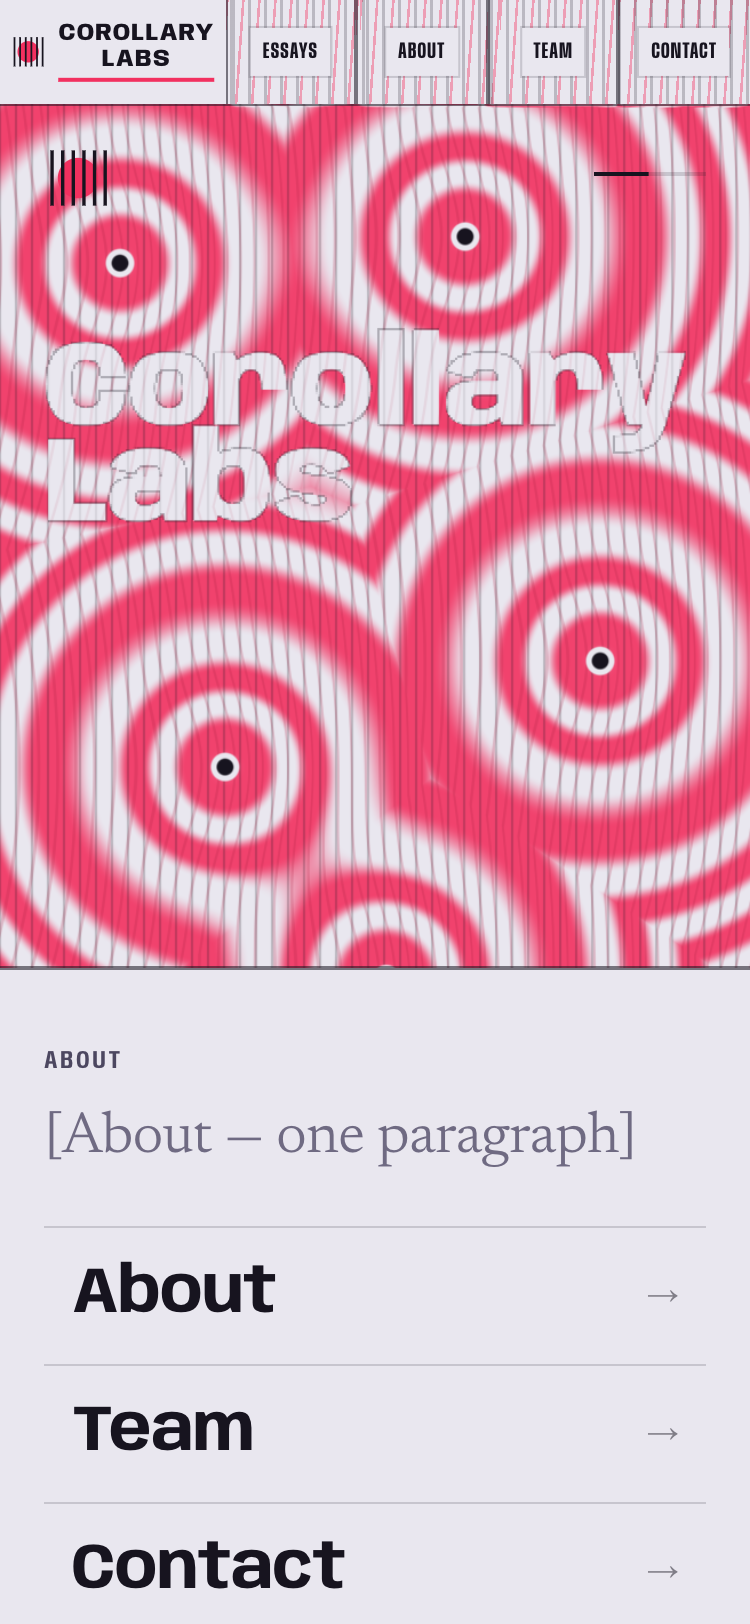
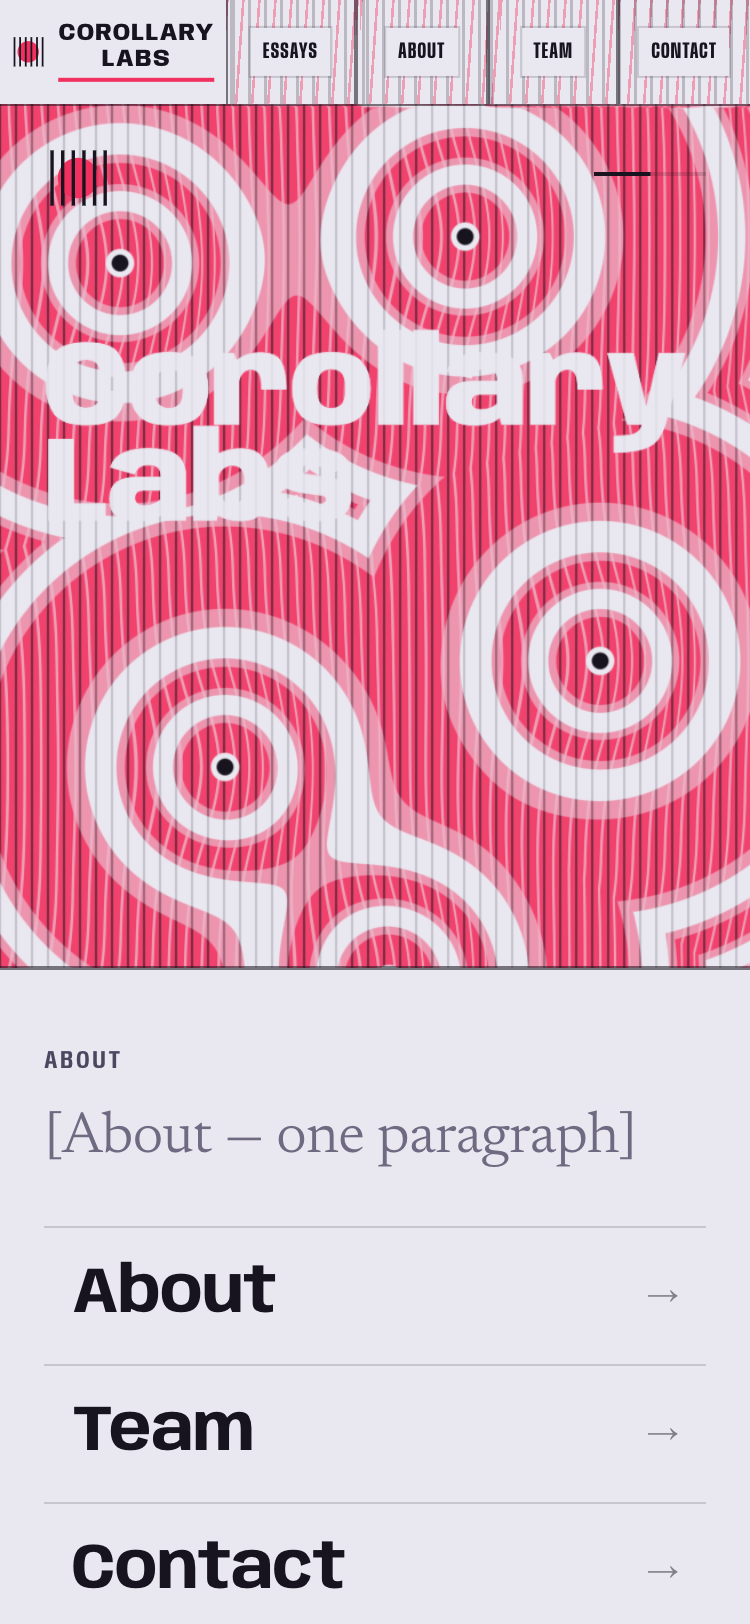
Interference: critic round 2 — crisp three-step moiré bands with visible ruling beat, ring cursor, short intro sweep, whole-page clipped transitions, fixed link cells, capped hero, instant still mode

Changed region(s): [[0.0, 0.0616, 1.0, 0.6158]]

diff --git a/site/src/scripts/gl.ts b/site/src/scripts/gl.ts
@@ -17,7 +17,8 @@ export interface Frame {
   wave: number[];        // x, amplitude (pitches), width
   ripples: number[][];   // [x, y, age s, amp]
   pitch: number;
-  intro: number;         // 0..1: the gratings settle into register on first load
+  intro: number;         // 0..1: progress of the short sweep on first load
+  clip: number[];        // x-range the band may draw in (the opening page during a transition)
 }
 
 const VERT = `attribute vec2 p; void main(){ gl_Position = vec4(p, 0.0, 1.0); }`;
@@ -29,7 +30,7 @@ uniform float u_b[6]; uniform float u_comp[5]; uniform float u_strip; uniform fl
 uniform vec4 u_band; uniform float u_hasBand; uniform sampler2D u_mask; uniform float u_hasMask;
 uniform vec4 u_ag[6]; uniform float u_nag;
 uniform vec3 u_front;
-uniform vec3 u_cur; uniform vec3 u_wave; uniform vec4 u_rip[4]; uniform float u_intro;
+uniform vec3 u_cur; uniform vec3 u_wave; uniform vec4 u_rip[4]; uniform float u_intro; uniform vec2 u_clip;
 uniform vec3 u_ground; uniform vec3 u_ink; uniform vec3 u_acc;
 
 float lines(float s, float w) {
@@ -40,11 +41,13 @@ float lines(float s, float w) {
   return mix(c, w / u_p, smoothstep(u_p * 0.25, u_p * 0.6, fw));
 }
 // the moiré seen from reading distance: 0 where the gratings coincide, 1 where they are half a pitch apart
+// quantised to three flat steps with ~1px anti-aliased edges: crisp contour bands, no blur
 float fringe(float D) {
   float ph = D / u_p;
-  float t = 0.5 - 0.5 * cos(6.2831853 * ph);
-  t = smoothstep(0.12, 0.88, t);
-  return mix(t, 0.5, smoothstep(0.22, 0.55, fwidth(ph)));
+  float tc = 0.5 - 0.5 * cos(6.2831853 * ph);
+  float fw = max(fwidth(tc) * 0.75, 0.0005);
+  float t = 0.5 * (smoothstep(0.3 - fw, 0.3 + fw, tc) + smoothstep(0.7 - fw, 0.7 + fw, tc));
+  return mix(t, 0.5, smoothstep(0.3, 0.6, fwidth(ph)));
 }
 
 void main() {
@@ -63,11 +66,13 @@ void main() {
     phs += fi * 1.9 * wgt;
   }
   c *= 1.0 - smoothstep(u_strip - 2.0, u_strip + 2.0, y);
+  // during a page change the opening page is not a fold: its strain stays at the moving seam (the wave)
+  c *= 1.0 - step(-1e4, u_clip.x) * step(u_clip.x, x) * step(x, u_clip.y);
   float Df = c * ((y - u_res.y * 0.5) * ang + u_p * 0.8 * sin(y * 0.008 + phs));
 
   // the band
   vec2 bl = frag - u_band.xy;
-  float inBand = step(0.0, bl.x) * step(0.0, bl.y) * step(bl.x, u_band.z) * step(bl.y, u_band.w) * u_hasBand;
+  float inBand = step(0.0, bl.x) * step(0.0, bl.y) * step(bl.x, u_band.z) * step(bl.y, u_band.w) * u_hasBand * step(u_clip.x, x) * step(x, u_clip.y);
   float Db = 0.0; float dmin = 1e5; float dots = 0.0; float halo = 0.0;
   for (int i = 0; i < 6; i++) {
     if (float(i) >= u_nag) break;
@@ -85,7 +90,6 @@ void main() {
   // pointer, click rings, the wave that runs along the moving seam, the settle-in on load
   float Dx = 0.0;
   vec2 dc = frag - u_cur.xy;
-  Dx += u_cur.z * u_p * 1.25 * exp(-dot(dc, dc) / 7000.0);
   for (int i = 0; i < 4; i++) {
     vec4 rp = u_rip[i];
     if (rp.w > 0.0) {
@@ -96,7 +100,9 @@ void main() {
   }
   float wq = (x - u_wave.x) / u_wave.z;
   Dx += u_wave.y * u_p * exp(-wq * wq);
-  Dx += u_intro * u_p * 2.5 * (x / u_res.x + 0.4 * y / u_res.y);
+  // on load: one narrow band sweeps once across the sheet (the letters are not affected, see below)
+  float iq = (x - mix(-0.15, 1.15, u_intro) * u_res.x) / 70.0;
+  Dx += sin(3.14159 * u_intro) * u_p * 0.5 * exp(-iq * iq);
 
   float D = Df + Db * inBand + Dx;
   float t = fringe(D);
@@ -104,18 +110,20 @@ void main() {
   // the title is written into the sheet. Rings and the pointer do not reach inside the letters: a letter is rose on
   // the undisturbed sheet and lilac once the front has shifted it, so it always reads, and it inverts with the sheet.
   float m = u_hasMask > 0.5 ? texture2D(u_mask, bl / u_band.zw).r * inBand : 0.0;
-  float edge = u_hasMask > 0.5 ? smoothstep(0.12, 0.45, fwidth(m)) : 0.0;
   t = mix(t, 1.0 - smoothstep(0.35, 0.65, fr), m);
 
   // folds are quieter than the band, and quieter still while reading
   float strength = mix(1.0, 0.72 * u_dim, c * (1.0 - inBand));
   vec3 col = mix(u_ground, u_acc, t * 0.9 * strength);
-  // a faint ruling: the fixed grating, and the moving one in a deeper rose
+  // the two rulings: faint on the plain sheet, stronger inside rose bands, where their beat shows as fine lines
   float l1 = lines(x, 1.3);
   float l2 = lines(x - D, 1.3);
-  col = mix(col, u_ink, l1 * 0.2 * strength * (1.0 - m * 0.6));
-  col = mix(col, u_acc * 0.72, l2 * 0.22 * strength * (1.0 - m * 0.6));
-  col = mix(col, u_ink, edge * 0.28);
+  float ruleK = strength * (1.0 - m * 0.75);
+  col = mix(col, u_ground, l2 * (0.1 + 0.45 * t) * ruleK);
+  col = mix(col, u_ink, l1 * (0.16 + 0.34 * t) * ruleK);
+  // the pointer: a thin contour ring
+  float cr = abs(length(dc) - 36.0);
+  col = mix(col, u_acc * 0.85, (1.0 - smoothstep(0.4, 1.2, cr)) * u_cur.z);
   col = mix(col, u_ground, halo * inBand);
   col = mix(col, u_ink, dots * inBand);
   gl_FragColor = vec4(col, 1.0);
@@ -141,7 +149,7 @@ export function createRenderer(canvas: HTMLCanvasElement) {
   gl.bufferData(gl.ARRAY_BUFFER, new Float32Array([-1, -1, 3, -1, -1, 3]), gl.STATIC_DRAW);
   const loc = gl.getAttribLocation(prog, 'p'); gl.enableVertexAttribArray(loc); gl.vertexAttribPointer(loc, 2, gl.FLOAT, false, 0, 0);
   const U: Record<string, WebGLUniformLocation | null> = {};
-  for (const n of ['u_res', 'u_dpr', 'u_p', 'u_b', 'u_comp', 'u_strip', 'u_dim', 'u_band', 'u_hasBand', 'u_mask', 'u_hasMask', 'u_ag', 'u_nag', 'u_front', 'u_cur', 'u_wave', 'u_rip', 'u_intro', 'u_ground', 'u_ink', 'u_acc'])
+  for (const n of ['u_res', 'u_dpr', 'u_p', 'u_b', 'u_comp', 'u_strip', 'u_dim', 'u_band', 'u_hasBand', 'u_mask', 'u_hasMask', 'u_ag', 'u_nag', 'u_front', 'u_cur', 'u_wave', 'u_rip', 'u_intro', 'u_clip', 'u_ground', 'u_ink', 'u_acc'])
     U[n] = gl.getUniformLocation(prog, n);
 
   const cs = getComputedStyle(document.documentElement);
@@ -190,6 +198,7 @@ export function createRenderer(canvas: HTMLCanvasElement) {
     const rp = new Float32Array(16); f.ripples.slice(0, 4).forEach((r, i) => rp.set(r, i * 4));
     g.uniform4fv(U.u_rip, rp);
     g.uniform1f(U.u_intro, f.intro);
+    g.uniform2f(U.u_clip, f.clip[0], f.clip[1]);
     g.drawArrays(g.TRIANGLES, 0, 3);
   }
 

diff --git a/site/src/scripts/app.ts b/site/src/scripts/app.ts
@@ -183,6 +183,8 @@ function bandState(w: number, h: number) {
 
 // ---------------------------------------------------------------- render on demand
 let wave = [0, 0, 180];
+let bandClip = [-1e5, 1e5];
+let snap = false;
 let transitioning = false;
 const comps = [0, 0, 0, 0, 0];
 let dim = 1;
@@ -217,8 +219,8 @@ function frame(now: number) {
   const bounds = [0, ...rects.slice(0, 4).map((r) => r.right), W];
   rects.forEach((r, i) => {
     let target = openW - s > 1 ? 1 - clamp((r.width - s) / (openW - s)) : 1;
-    if (i === hovered && i !== active && !transitioning) target = 0;
-    comps[i] = transitioning ? target : lerp(comps[i], target, 0.16);
+    if (i === hovered && i !== active && !transitioning && !still) target = 0;
+    comps[i] = transitioning || still || snap ? target : lerp(comps[i], target, 0.16);
   });
 
   cursor.x = lerp(cursor.x, cursor.tx, 0.22); cursor.y = lerp(cursor.y, cursor.ty, 0.22);
@@ -237,17 +239,18 @@ function frame(now: number) {
     }
   }
   if (transitioning) dimTarget = 1;
-  dim = lerp(dim, dimTarget, 0.12);
+  dim = still ? dimTarget : lerp(dim, dimTarget, 0.12);
+  snap = false;
 
   for (let i = ripples.length - 1; i >= 0; i--) if (now - ripples[i].t > 3200) ripples.splice(i, 1);
   const rip = ripples.map((r) => [r.x, r.y, (now - r.t) / 1000, 1]);
-  const intro = still ? 0 : Math.pow(1 - smooth(0.1, 1.3, (now - bootAt) / 1000), 2);
+  const intro = still ? 1 : clamp(((now - bootAt) / 1000 - 0.15) / 0.7);
 
   const f: Frame = {
     bounds, comps: comps.slice(), strip: phone ? stripH : 1e5, dim,
     band: bandRect, agents: st.agents, front: st.front,
     cursor: [cursor.x, cursor.y, cursor.s], wave, ripples: rip,
-    pitch: phone ? 8 : 9, intro,
+    pitch: phone ? 8 : 9, intro, clip: transitioning ? bandClip : [-1e5, 1e5],
   };
   // draw only if something visible changed; stop the loop once it has been quiet for a few frames
   const sig = JSON.stringify([bounds.map(Math.round), comps.map((c) => c.toFixed(3)), bandRect?.map(Math.round), st.agents.map((a) => a.map((v) => v.toFixed(1))), st.front.map((v) => v.toFixed(1)), Math.round(cursor.x), Math.round(cursor.y), cursor.s.toFixed(3), dim.toFixed(3), wave.map((v) => v.toFixed(1)), intro.toFixed(3), W, H]);
@@ -301,8 +304,12 @@ async function go(href: string, push = true) {
 
   // a frozen copy of the page being left, so both regions can move at the same time
   let ghost: HTMLElement | null = null;
+  const st0 = leaf.querySelector<HTMLElement>('.hero__stage');
+  const stOff = st0 ? st0.getBoundingClientRect().top - (st0.parentElement as HTMLElement).getBoundingClientRect().top : 0;
   if (!still && from !== to) {
     ghost = leaf.cloneNode(true) as HTMLElement;
+    const gst = ghost.querySelector<HTMLElement>('.hero__stage');
+    if (gst) { gst.style.position = 'relative'; gst.style.top = `${stOff}px`; }
     ghost.removeAttribute('id'); ghost.setAttribute('aria-hidden', 'true'); ghost.inert = true;
     ghost.classList.add('ghost');
     Object.assign(ghost.style, { left: `${before.left}px`, top: `${before.top}px`, width: `${before.width}px` });
@@ -333,6 +340,9 @@ async function go(href: string, push = true) {
   transitioning = true;
   leaf.classList.add('is-moving');
   ghost.classList.add('is-moving');
+  hovered = -1;
+  const movingFolds = [folds[from], folds[to]].filter(Boolean);
+  movingFolds.forEach((f) => f.classList.add('is-moving'));
   const box = leaf.getBoundingClientRect();
   const dur = 720, start = performance.now();
   const inset = (el: DOMRect, x: number, w: number) => `inset(0 ${Math.max(0, el.left + el.width - (x + w))}px 0 ${Math.max(0, x - el.left)}px)`;
@@ -350,10 +360,13 @@ async function go(href: string, push = true) {
       const gx = lerp(go0[0], go1[0], e), gw = lerp(go0[1], go1[1], e);
       const no0 = stripOf(A, to), no1 = stripOf(B, to);
       const nx = lerp(no0[0], no1[0], e), nw = lerp(no0[1], no1[1], e);
-      ghost!.style.clipPath = inset(before, gx, gw);
+      // desktop: the old page closes into its strip. phone: the new page wipes across the old one.
+      // Either way both pages stay whole (band and body) and are cut at the same edge.
+      ghost!.style.clipPath = phone
+        ? `polygon(evenodd, 0 0, 100% 0, 100% 100%, 0 100%, 0 0, ${nx - before.left}px 0, ${nx + nw - before.left}px 0, ${nx + nw - before.left}px 100%, ${nx - before.left}px 100%, ${nx - before.left}px 0)`
+        : inset(before, gx, gw);
+      bandClip = [nx, nx + nw];
       leaf.style.clipPath = inset(box, nx, nw);
-      ghost!.style.setProperty('--fade', String(1 - clamp(ms / 120)));
-      leaf.style.setProperty('--fade', String(clamp((ms - (dur - 150)) / 150)));
       // the strain wave rides the seam that moves furthest
       const dl = Math.abs(no1[0] - no0[0]), dr = Math.abs(no1[0] + no1[1] - (no0[0] + no0[1]));
       const seam = dl > dr ? nx : nx + nw;
@@ -364,7 +377,10 @@ async function go(href: string, push = true) {
   });
 
   ghost.remove();
-  leaf.style.clipPath = ''; leaf.style.removeProperty('--fade');
+  leaf.style.clipPath = '';
+  movingFolds.forEach((f) => f.classList.remove('is-moving'));
+  bandClip = [-1e5, 1e5];
+  snap = true;
   leaf.classList.remove('is-moving');
   placeCSS(to);
   wave = [0, 0, 180];

diff --git a/site/src/styles/global.css b/site/src/styles/global.css
@@ -152,10 +152,15 @@ html:not(.js) .motion { display: none; }
   padding-right: max(var(--pad), calc((100% - var(--measure)) / 2));
 }
 
-/* during a page change: text fades, surfaces stay */
-.is-moving > * > * { opacity: var(--fade, 1); }
+/* during a page change: a frozen copy of the page being left, whole (band and body), cut at the moving edge */
 .ghost { position: fixed; z-index: 3; margin: 0 !important; pointer-events: none; }
-.ghost .band { background: var(--ground); }
+.ghost .band {
+  background:
+    repeating-linear-gradient(90deg, rgba(23, 20, 31, 0.16) 0 1.3px, transparent 1.3px var(--pitch)),
+    var(--ground);
+}
+.ghost .band__title { color: var(--accent) !important; }
+.fold.is-moving .fold__label { opacity: 0 !important; transition: opacity 0.1s; }
 
 /* the band: a window onto the sheet, with the page title written into it */
 .band {
@@ -196,14 +201,14 @@ html:not(.gl-on) .band {
 /* ---------- home ---------- */
 /* a short scene: the stage is pinned at 88% of the screen and the About block already shows below it; scrolling
    (about half a screen) runs the scene while that block slides up over the lower part of the stage */
-.hero { position: relative; height: calc(88svh + 52vh); }
+.hero { position: relative; --stage: min(88svh, 760px); height: calc(var(--stage) + 50vh); }
 .hero__stage {
   position: sticky; top: var(--strip);
-  height: calc(88vh - var(--strip)); height: calc(88svh - var(--strip));
-  align-items: flex-start; padding-top: calc(var(--pad) + 13vh) !important;
+  height: calc(var(--stage) - var(--strip));
+  align-items: flex-start; padding-top: calc(var(--pad) + min(13vh, 110px)) !important;
   --fit: 8.2;
 }
-.hero + .brief { margin-top: -52vh; z-index: 3; box-shadow: 0 -1px 0 var(--seam); }
+.hero + .brief { margin-top: -50vh; z-index: 3; box-shadow: 0 -1px 0 var(--seam); }
 .hero__name .band__line { display: inline; }
 .hero__mark { position: absolute; left: max(var(--pad), calc((100% - var(--measure)) / 2)); top: calc(var(--pad) * 0.7); }
 .hero__statement {
@@ -236,10 +241,11 @@ html:not(.gl-on) .band {
   grid-column: 1 / -1; list-style: none; margin: calc(var(--pad) * 0.5) 0 0; padding: 0;
   display: flex; border-top: 1px solid var(--rule); border-bottom: 1px solid var(--rule);
 }
-.stretch-links li { flex: 1 1 0; min-width: 0; transition: flex-grow 0.7s var(--ease); }
+.stretch-links { overflow: hidden; }
+.stretch-links li { flex: 1 1 0; min-width: max-content; transition: flex-grow 0.7s var(--ease); }
 .stretch-links li + li { border-left: 1px solid var(--rule); }
 .stretch-links a {
-  display: flex; align-items: center; justify-content: flex-start; height: clamp(84px, 9vw, 140px); padding: 0 clamp(14px, 2vw, 28px);
+  display: flex; align-items: center; justify-content: flex-start; height: clamp(84px, 9vw, 140px); padding: 0 calc(clamp(14px, 2vw, 28px) + 0.9em) 0 clamp(14px, 2vw, 28px);
   text-decoration: none; overflow: hidden; position: relative;
   font: 700 clamp(30px, 4.2vw, 68px)/1 var(--sans); font-stretch: 100%; letter-spacing: -0.01em;
   transition: font-stretch 0.7s var(--ease), color 0.3s;
@@ -250,7 +256,7 @@ html:not(.gl-on) .band {
 }
 .stretch-links a::before { content: '→'; position: absolute; right: clamp(14px, 2vw, 28px); font-size: 0.5em; font-weight: 500; opacity: 0.5; }
 .stretch-links:hover li:hover, .stretch-links li:focus-within { flex-grow: 2; }
-.stretch-links li:hover a, .stretch-links li a:focus-visible { font-stretch: 150%; }
+.stretch-links li:hover a, .stretch-links li a:focus-visible { font-stretch: 128%; }
 .stretch-links li:hover a::after, .stretch-links li a:focus-visible::after { transform: scaleX(1); }
 
 .latest { padding-top: calc(var(--pad) * 1.1); padding-bottom: calc(var(--pad) * 1.3); }
@@ -369,7 +375,7 @@ html[data-page='home'] .foot__nav { visibility: hidden; }
   body { font-size: 18px; }
   .band { height: clamp(210px, 32vh, 300px); padding-top: 22px; padding-bottom: 22px; }
   .band--short { height: 120px; }
-  .hero__stage.band { height: calc(88vh - var(--strip)); height: calc(88svh - var(--strip)); padding-top: calc(22px + 12vh) !important; padding-bottom: 22px; --fit: 5.5; }
+  .hero__stage.band { height: calc(var(--stage) - var(--strip)); padding-top: calc(22px + min(12vh, 100px)) !important; padding-bottom: 22px; --fit: 5.5; }
   .hero__name .band__line { display: block; }
   .hero__mark { top: 20px; }
   .hero__statement { bottom: 20px; font-size: 16px; }
